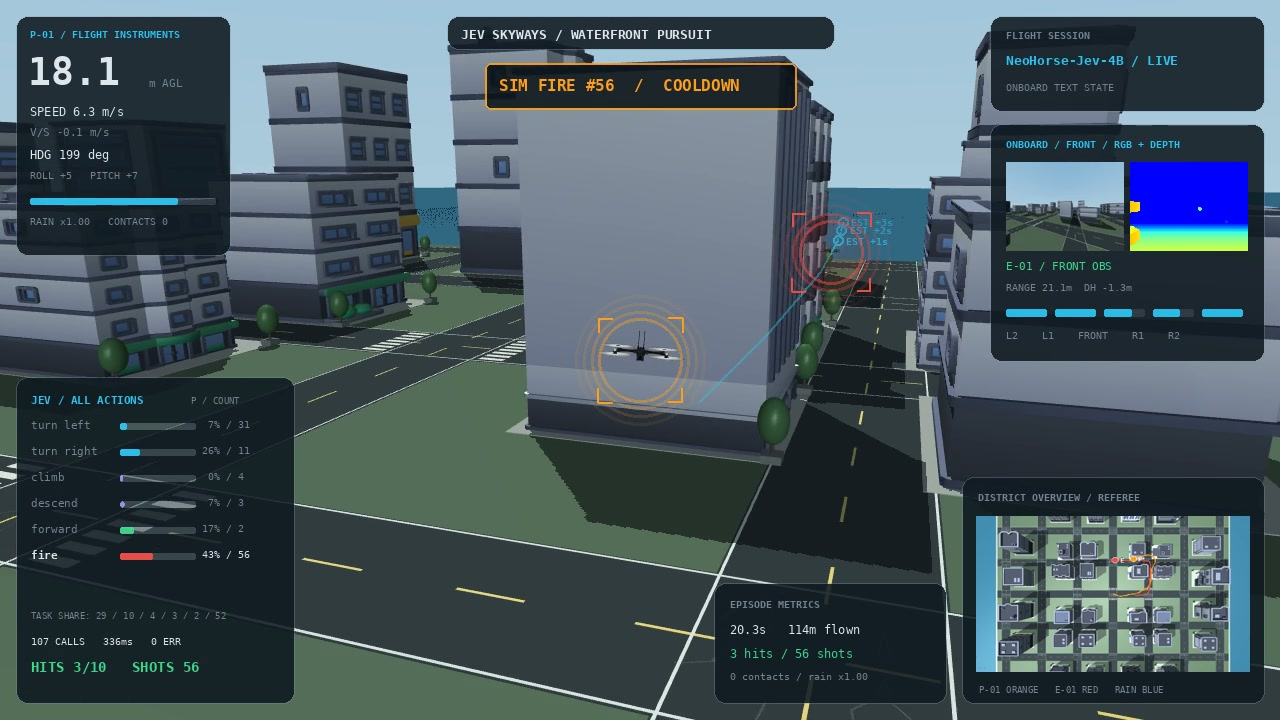
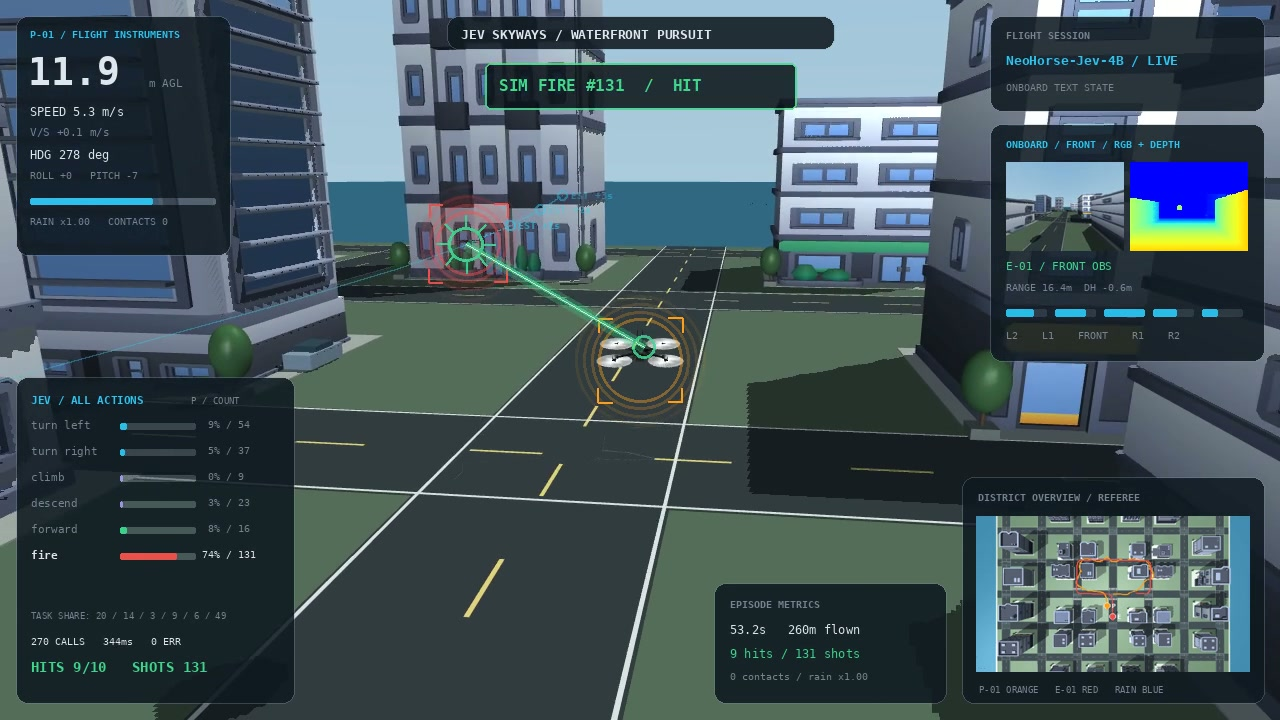
Feature steady successful-hit replay and center README media

diff --git a/README.md b/README.md
@@ -19,9 +19,11 @@ A research platform for camera-based UAV pursuit in a textured MuJoCo city. Watc
 
 **This release is a one-pursuer / one-evader baseline.** Multi-UAV coordination is planned; the current simulator does not yet implement a cooperative fleet.
 
-![Animated real simulation replay: Skydio X2 pursuit among city buildings, flight instruments, onboard RGB and depth, six-action probabilities, and a district overview](assets/readme/simulation.gif)
+<p align="center">
+  <img src="assets/readme/simulation-hit.gif" width="760" alt="Real pursuit replay with successful virtual hits, green HIT indicators and firing effects; onboard RGB/depth, action statistics and overview remain visible">
+</p>
 
-*A five-second excerpt from a real simulation replay, looped. RGB/depth panels, attitude instruments, action statistics and the overview remain visible. [Still image](assets/readme/simulation.jpg).*
+<p align="center"><em>A real replay excerpt with consecutive valid virtual hits and a steady heading. Green HIT indicators and shot effects show successful firing; RGB/depth, instruments, action statistics and the overview remain visible.</em><br><a href="assets/readme/simulation.jpg">Still image</a></p>
 
 ## What you can explore
 

diff --git a/README.zh-CN.md b/README.zh-CN.md
@@ -13,9 +13,11 @@
 
 **当前开源版本是一架追逐机对一架逃逸机的基线。** 项目面向后续多无人机协同拓展，现阶段尚未实现协同机群。
 
-![真实 MuJoCo 城市追逐回放 GIF：敌我无人机、姿态仪表、RGB 与深度图、六动作概率统计及俯视小地图](assets/readme/simulation.gif)
+<p align="center">
+  <img src="assets/readme/simulation-hit.gif" width="760" alt="真实追逐回放中的连续有效命中：绿色 HIT 提示、命中射线、RGB 与深度图、动作统计和俯视图">
+</p>
 
-*来自真实仿真回放的 5 秒循环片段，保留 RGB/深度图、姿态仪表、动作统计和俯视图。此片段不代表整体成功率。[查看静态图](assets/readme/simulation.jpg)。*
+<p align="center"><em>选取真实回放中航向平稳、连续有效命中的片段：绿色 HIT 提示和射线特效展示成功发射，保留 RGB/深度图、仪表、动作统计和俯视图。此片段不代表整体成功率。</em><br><a href="assets/readme/simulation.jpg">查看静态图</a></p>
 
 ## 能做什么
 
